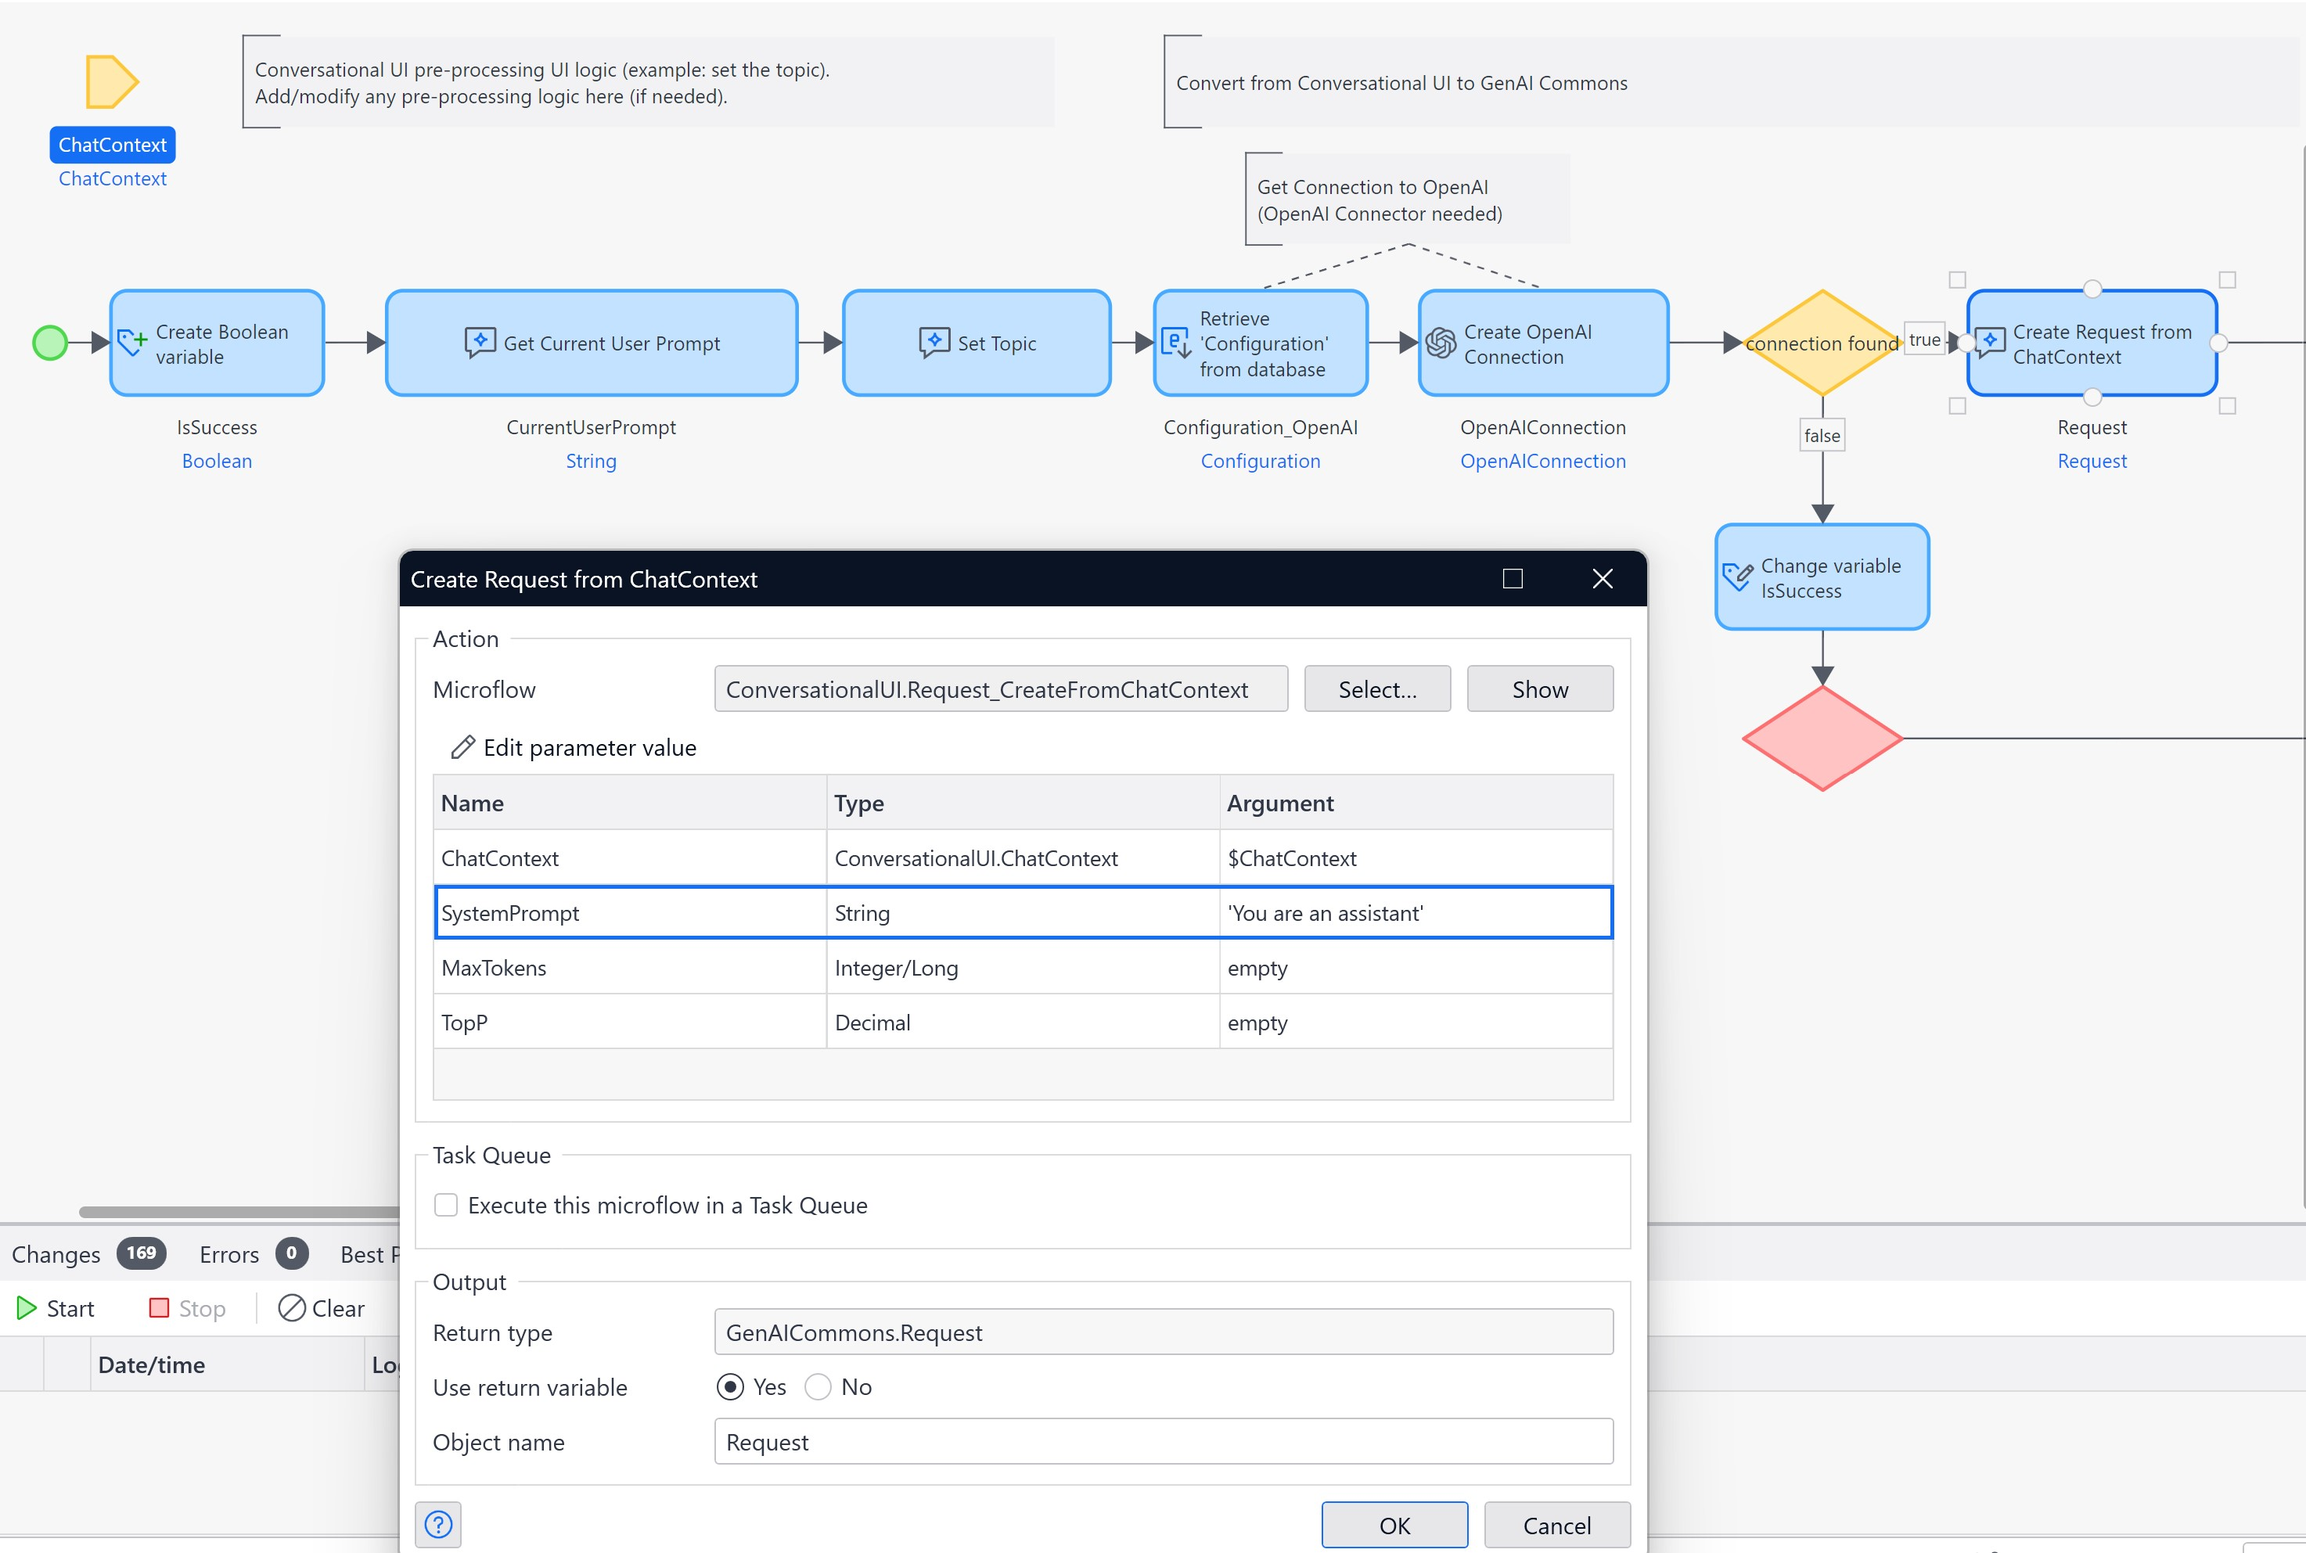
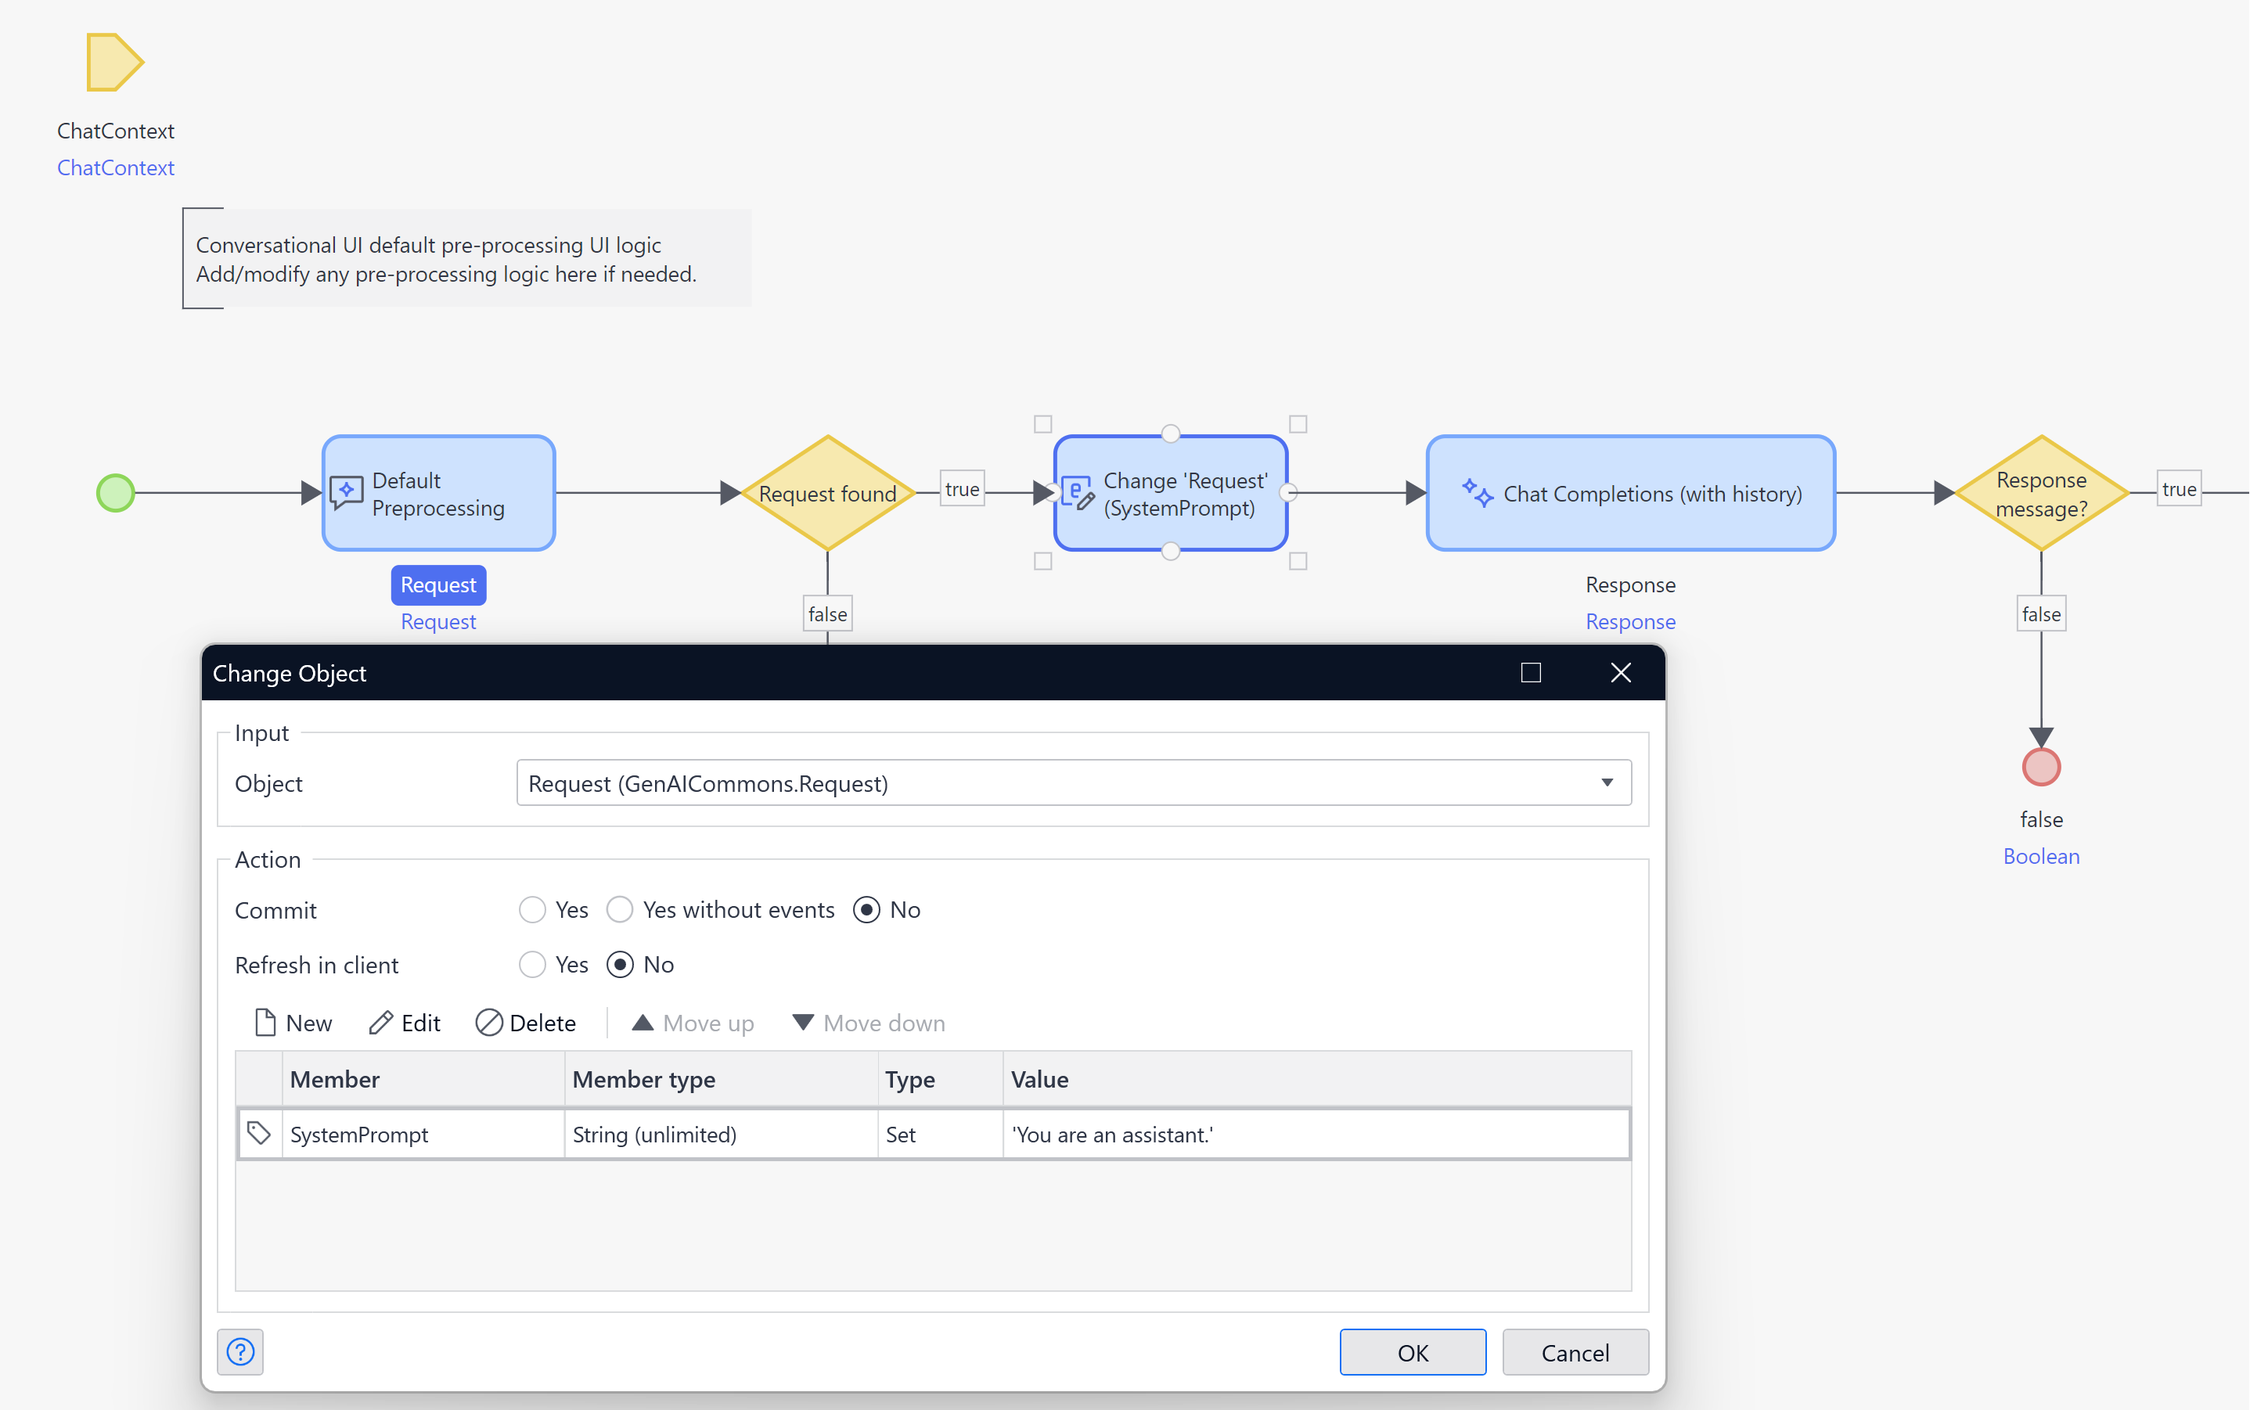
SAS-1041: replaced image of action microflow; typo fixes; changed order of microflow activities;

diff --git a/content/en/docs/appstore/use-content/platform-supported-content/modules/genai/_index.md b/content/en/docs/appstore/use-content/platform-supported-content/modules/genai/_index.md
@@ -39,14 +39,14 @@ To help you get started, the following sections list the available GenAI compone
 |-------------------|---------------------------------------------------|----------------------------------|------------|
 | [AI Bot Starter App](https://marketplace.mendix.com/link/component/227926) | Lets you kick-start the development of enterprise-grade AI chatbot experiences. For example, you can use it to create your own private enterprise-ready ChatGPT-like app. | Starter App | 10.12 |
 | [Blank GenAI App](https://marketplace.mendix.com/link/component/227934) | Start from scratch to create a new application with GenAI capabilities and without any dependencies. | Starter App | 10.12 |
-| [GenAI Showcase App](https://marketplace.mendix.com/link/component/220475) | Understand what you can build with generative AI. Understand how to implement the OpenAI and Amazon Bedrock connectors and how to integrate them with the Conversational UI module. |Showcase App | 9.24.2 |
+| [GenAI Showcase App](https://marketplace.mendix.com/link/component/220475) | Understand what you can build with generative AI. Understand how to implement the Mendix Cloud GenAI, OpenAI and Amazon Bedrock connectors and how to integrate them with the Conversational UI module. |Showcase App | 9.24.2 |
 | [RFP Assistant Starter App / Questionnaire Assistant Starter App](https://marketplace.mendix.com/link/component/235917) | The RFP Assistant Starter App and the Questionnaire Assistant Starter App leverage historical RFPs (or question-answer pairs) and a continuously updated knowledge base to generate and assist in editing responses to RFPs, offering a time-saving alternative to manually finding similar responses and enhancing the knowledge management process.  | Starter App | 9.24.2 |
-| [Support Assistant Starter App](https://marketplace.mendix.com/link/component/231035) | Learn how to combine common GenAI patterns, such as function calling and RAG to build your support assistant. Connect it to a model like Anthropic Claude or Amazon Titan via Amazon Bedrock or use an (Azure) OpenAI subscription.  | Starter App | 10.12 |
-| [GenAI For Mendix](https://marketplace.mendix.com/link/component/227931) | - [GenAI Commons](/appstore/modules/genai/commons/): Common capabilities that allow all GenAI connectors to be integrated with the other modules. You can also implement your own connector based on this. | Common Module | 9.24.2 |
-| | - [Conversational UI](/appstore/modules/genai/conversational-ui/): Create a Conversational UI for a new or existing app. | UI Module | 9.24.2 |
-| | - [Mendix Cloud GenAI Connector](/appstore/modules/genai/MxGenAI/): Connect to Mendix Cloud and utilize Mendix Cloud GenAI resource packs directly within your Mendix application. | Connector Module | 9.24.2 |
+| [Support Assistant Starter App](https://marketplace.mendix.com/link/component/231035) | Learn how to combine common GenAI patterns, such as function calling and RAG to build your support assistant. Connect it to a model like Anthropic Claude via Mendix Cloud GenAI or Amazon Bedrock or use an (Azure) OpenAI subscription.  | Starter App | 10.12 |
+| [GenAI For Mendix](https://marketplace.mendix.com/link/component/227931) |[GenAI Commons](/appstore/modules/genai/commons/): Common capabilities that allow all GenAI connectors to be integrated with the other modules. You can also implement your own connector based on this. | Common Module | 9.24.2 |
+| |[Conversational UI](/appstore/modules/genai/conversational-ui/): Create a Conversational UI for a new or existing app. | UI Module | 9.24.2 |
+| |[Mendix Cloud GenAI Connector](/appstore/modules/genai/MxGenAI/): Connect to Mendix Cloud and utilize Mendix Cloud GenAI resource packs directly within your Mendix application. | Connector Module | 9.24.2 |
 | [OpenAI Connector](/appstore/modules/genai/openai/) | Connect to (Azure) OpenAI. | Connector Module | 9.24.2 |
-| [Amazon Bedrock Connector](/appstore/modules/genai/bedrock/) | Connect to Amazon Bedrock. Use Retrieve & Generate or Bedrock agents. | Connector Module | 9.24.2 |
+| [Amazon Bedrock Connector](/appstore/modules/aws/amazon-bedrock/) | Connect to Amazon Bedrock. Use Retrieve & Generate or Bedrock agents. | Connector Module | 9.24.2 |
 | [PgVector Knowledge Base](/appstore/modules/genai/pgvector/) | Manage and interact with a PostgreSQL *pgvector* Knowledge Base. | Connector Module | 9.24.2 |
 | [Snowflake Showcase App](https://marketplace.mendix.com/link/component/225845) | Learn how to implement the Cortex functionalities in your app. | Showcase App | 10.12 |
 
@@ -80,7 +80,7 @@ Mendix connectors offer direct support for the following models:
 | Mendix Cloud GenAI | Anthropic Claude v3.5 Sonnet | Chat Completions | text, image | text | Function calling, Document Chat |
 | | Cohere Embed English, Cohere Embed Multilingual | Embeddings | text | embeddings | |
 
-For more details on limitations and supported model capabilities for the Bedrock Converse API used in the ChatCompletions operations, see [Supported models and model features](https://docs.aws.amazon.com/bedrock/latest/userguide/conversation-inference.html#conversation-inference-supported-models-features) in the AWS documentation.
+For more details on limitations and supported model capabilities for the Bedrock Converse API used in the ChatCompletions operations, see [Supported models and model features](https://docs.aws.amazon.com/bedrock/latest/userguide/conversation-inference-supported-models-features.html) in the AWS documentation.
 
 The available showcase applications offer implementation inspiration for many of the listed models.
 

diff --git a/content/en/docs/appstore/use-content/platform-supported-content/modules/genai/genai-commons.md b/content/en/docs/appstore/use-content/platform-supported-content/modules/genai/genai-commons.md
@@ -398,42 +398,6 @@ The `Generate Image` operation supports the generation of images based on a `Use
 | --- | --- | --- |
 | `Response` | [Response](#response) | A `Response` object that contains the assistant's response including a `FileContent` which needs to be used in [Get Generated Image (Single)](#image-get-single) or [Get Generated Images (List)](#image-get-list).|
 
-#### GenAI (Request Building, Expert)
-
-##### Configure Stop Sequence {#chat-add-stop-sequence}
-
-This microflow can be used to add an optional [StopSequence](#stopsequence) to the request. It can be used after the request has been created. If available for the connector and model of choice, stop sequences let models know when to stop generating text.
-
-###### Input Parameters
-
-| Name | Type | Notes | Description |
-|---|---|---|---|
-| `Request` | [Request](#request) | mandatory | This is the request object that contains the functional input for the model to generate a response. |
-| `StopSequence` | String | mandatory | This is the stop sequence string, which is used to make the model stop generating tokens at a desired point. |
-
-###### Return Value
-
-This microflow does not have a return value.
-
-##### Image Generation: Create ImageOptions {#imageoptions-create}
-
-This microflow creates new [ImageOptions](#imageoptions-entity).
-
-###### Input Parameters
-
-| Name | Type | Notes | Description |
-|--- |--- |--- |--- |
-| `Height` | Integer/Long | optional | To set Width. |
-| `Width` | Integer/Long | optional | To set Height. |
-| `NumberOfImages` | Integer/Long | optional | To set NumberOfImages to create. |
-
-###### Return Value
-
-| Name | Type | Description |
-|--- |--- |--- |
-| `ImageOptions` | [ImageOptions](#imageoptions-entity) | The newly created ImageOptions object. |
-
-
 #### GenAI (Request Building) {#genai-request-building}
 
 The following microflows help you construct the input request structures for the operations defined in GenAI Commons.
@@ -619,6 +583,41 @@ This microflow can get the content from the latest assistant message over associ
 | Name | Type | Description |
 |---|---|---|
 | `ResponseText` | String | This is the string `Content` of the message with role `assistant` that was generated by the model as a response to a user message. |
+
+#### GenAI (Request Building, Expert)
+
+##### Configure Stop Sequence {#chat-add-stop-sequence}
+
+This microflow can be used to add an optional [StopSequence](#stopsequence) to the request. It can be used after the request has been created. If available for the connector and model of choice, stop sequences let models know when to stop generating text.
+
+###### Input Parameters
+
+| Name | Type | Notes | Description |
+|---|---|---|---|
+| `Request` | [Request](#request) | mandatory | This is the request object that contains the functional input for the model to generate a response. |
+| `StopSequence` | String | mandatory | This is the stop sequence string, which is used to make the model stop generating tokens at a desired point. |
+
+###### Return Value
+
+This microflow does not have a return value.
+
+##### Image Generation: Create ImageOptions {#imageoptions-create}
+
+This microflow creates new [ImageOptions](#imageoptions-entity).
+
+###### Input Parameters
+
+| Name | Type | Notes | Description |
+|--- |--- |--- |--- |
+| `Height` | Integer/Long | optional | To set Width. |
+| `Width` | Integer/Long | optional | To set Height. |
+| `NumberOfImages` | Integer/Long | optional | To set NumberOfImages to create. |
+
+###### Return Value
+
+| Name | Type | Description |
+|--- |--- |--- |
+| `ImageOptions` | [ImageOptions](#imageoptions-entity) | The newly created ImageOptions object. |
 
 #### GenAI Knowledge Base (Content) {#genai-knowledgebase-content}
 
